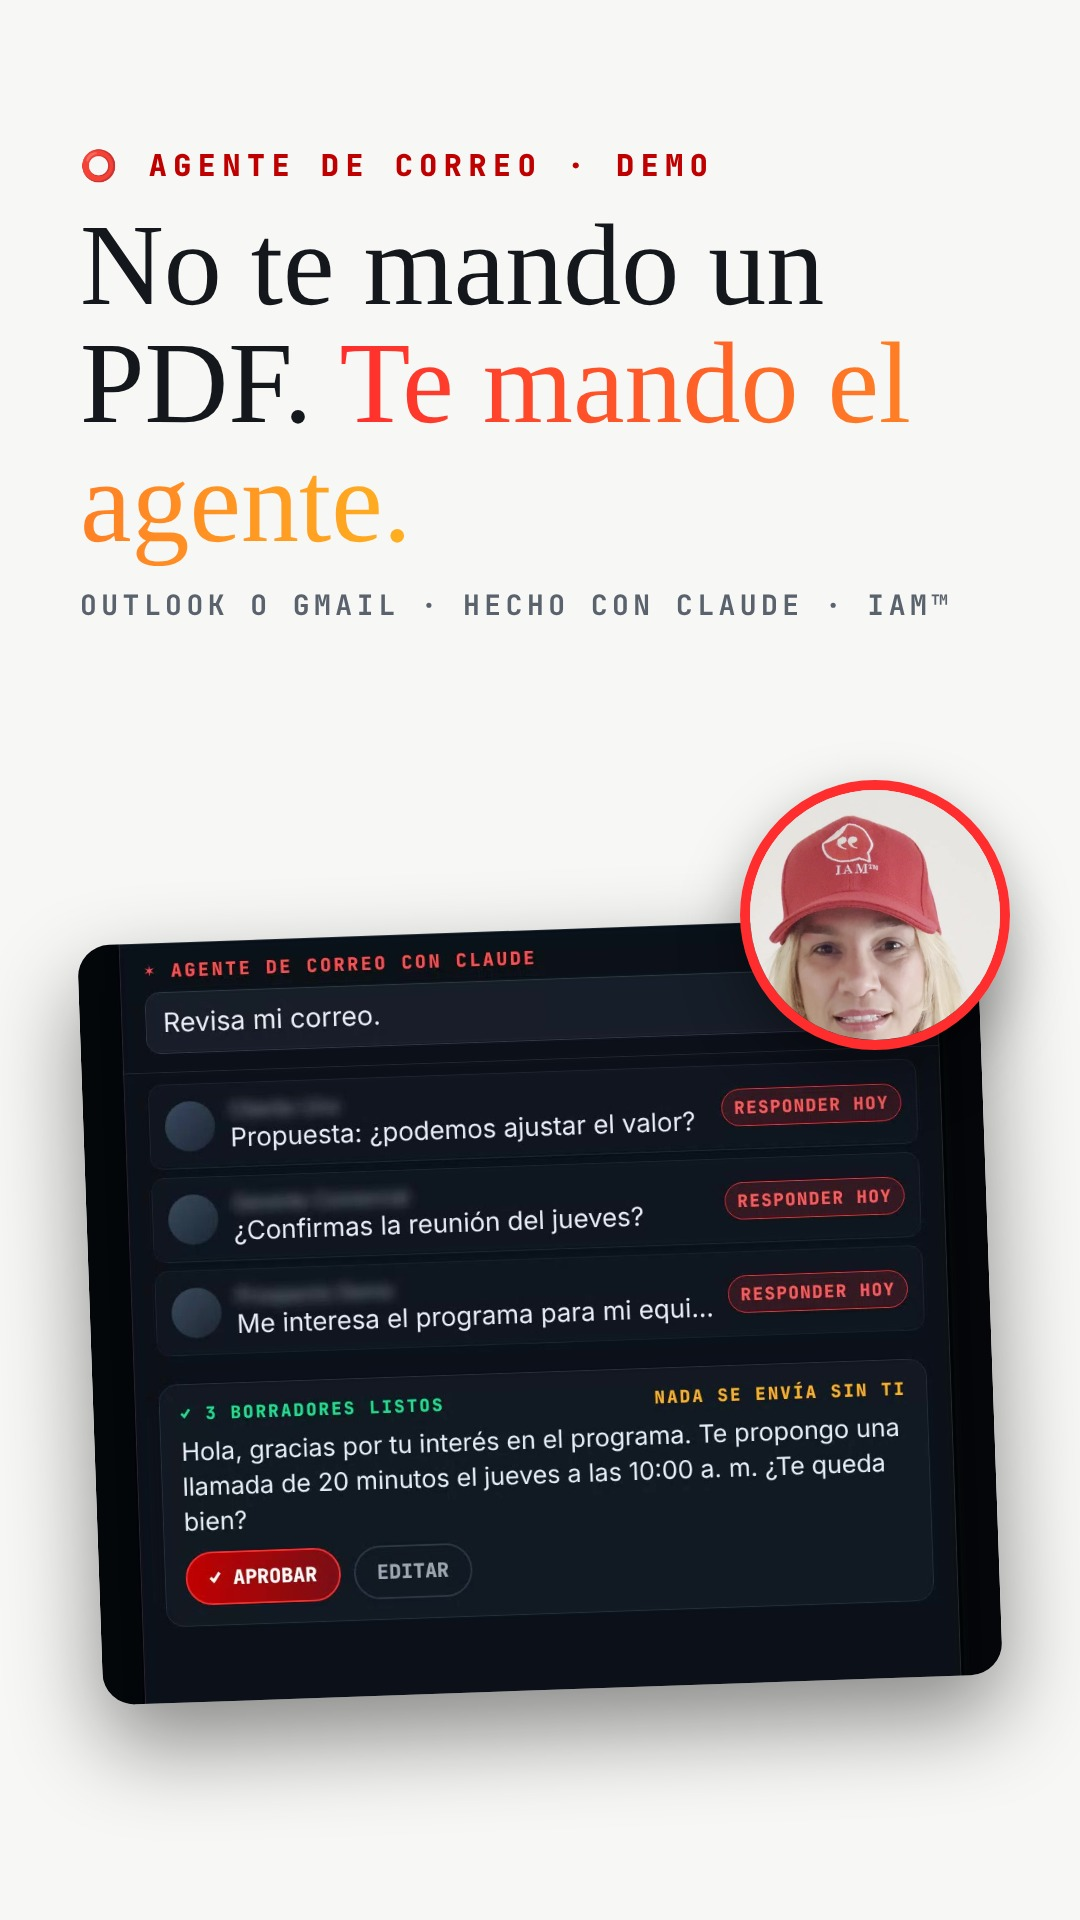
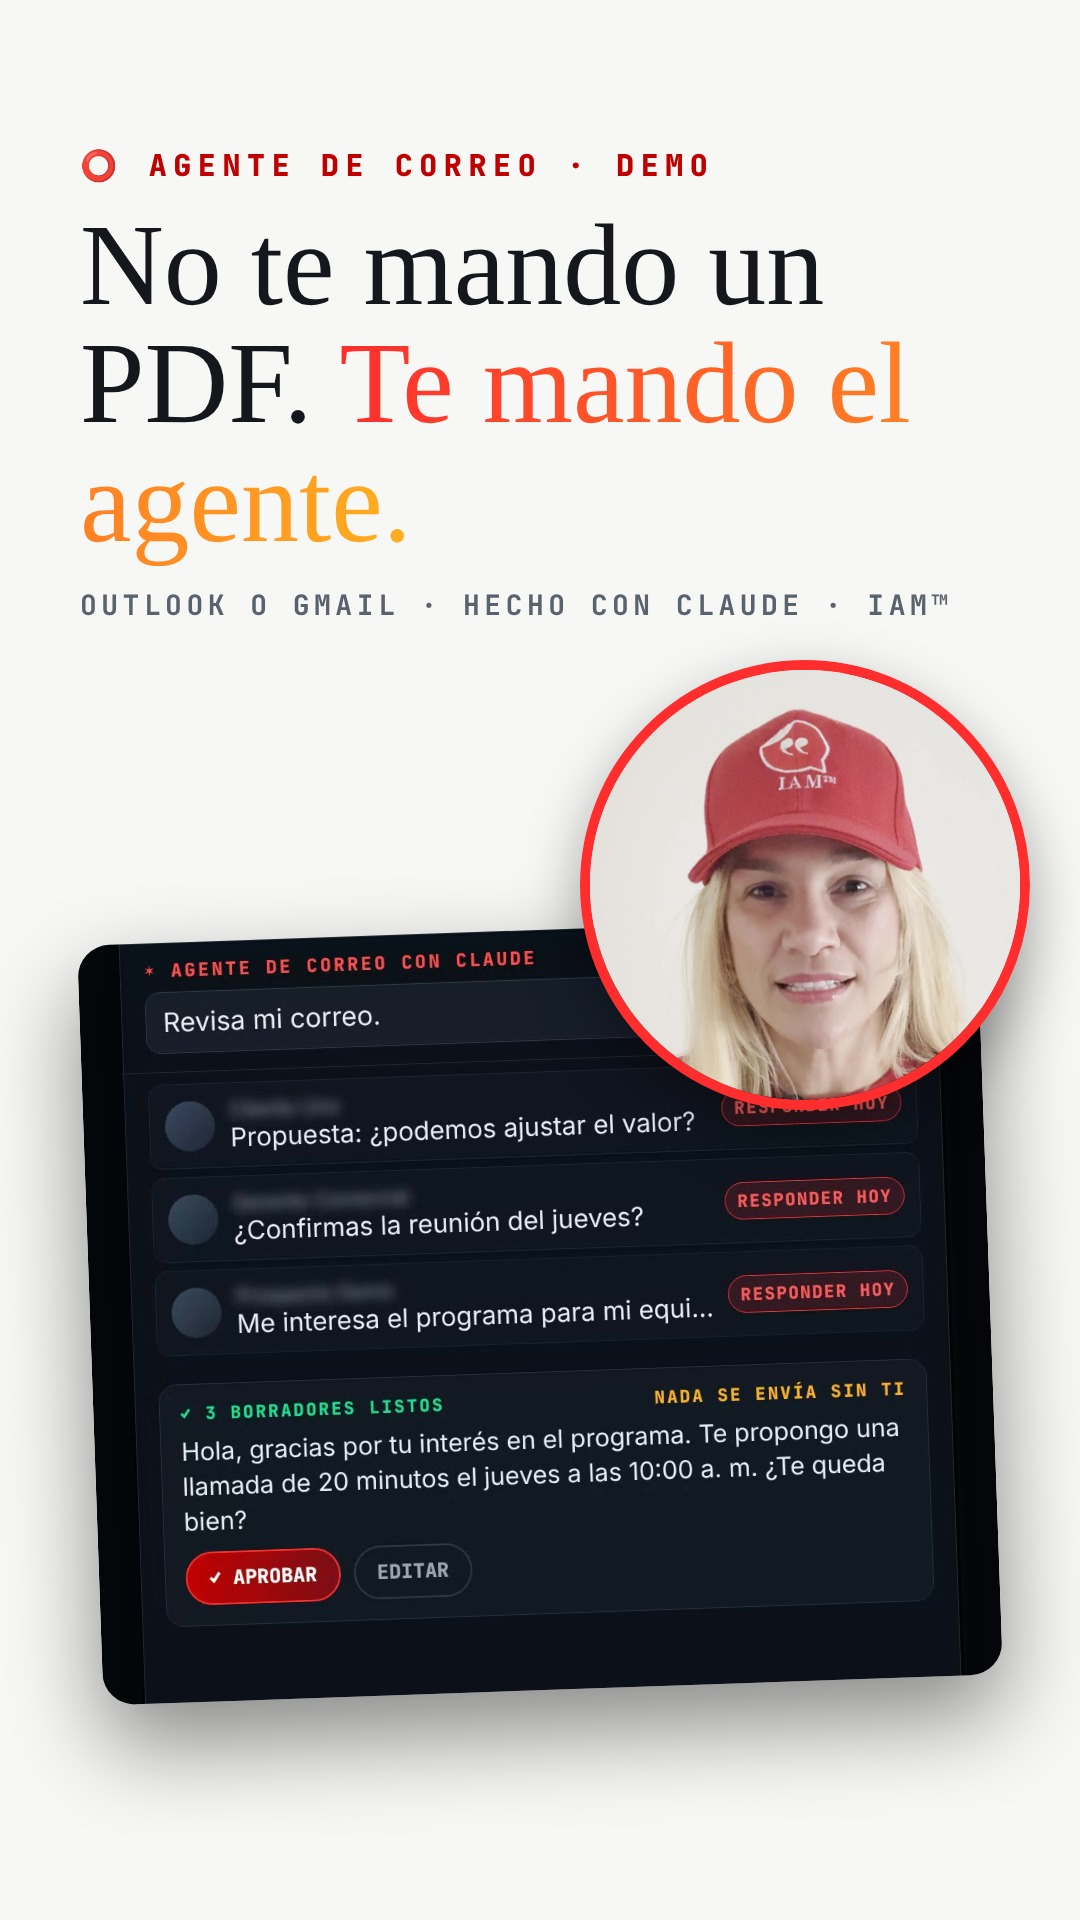
Portada CORREO: foto de Sandra más grande, cara completa; texto aprobado
Claude-Session: https://claude.ai/code/session_01NfWH1YnxdbRLc9ZrUJbHYq

Changed region(s): [[0.5194, 0.3438, 0.9778, 0.5938]]

diff --git a/estrategia/instagram/reel-agente-correo/cover.html b/estrategia/instagram/reel-agente-correo/cover.html
@@ -12,7 +12,7 @@ em{font-style:normal;background:linear-gradient(90deg,#ff2d2d,#ffb020);-webkit-b
 </style></head><body>
 <div class="c" id="c1"><div style="position:absolute;top:150px;left:80px;right:80px"><p class="eye" style="color:#c00000">⭕ AGENTE DE CORREO · DEMO</p><h1 style="font-size:116px">No te mando un PDF. <em>Te mando el agente.</em></h1><p class="s" style="color:#5a636d">OUTLOOK O GMAIL · HECHO CON CLAUDE · IAM™</p></div>
 <div class="shot" style="top:930px;height:760px;transform:rotate(-2deg)"><img src="f2.jpg" style="margin-top:-420px"></div>
-<div style="position:absolute;top:780px;right:70px;width:270px;height:270px;border-radius:50%;overflow:hidden;border:10px solid #ff2d2d;box-shadow:0 24px 60px rgba(0,0,0,.35);z-index:3"><img src="sandra.jpg" style="width:100%;height:100%;object-fit:cover"></div></div>
+<div style="position:absolute;top:660px;right:50px;width:450px;height:450px;border-radius:50%;overflow:hidden;border:10px solid #ff2d2d;box-shadow:0 24px 60px rgba(0,0,0,.35);z-index:3"><img src="sandra.jpg" style="width:100%;height:100%;object-fit:cover"></div></div>
 <div class="c" id="c2"><div class="shot" style="top:120px;transform:rotate(2deg);height:900px"><img src="f2.jpg" style="margin-top:-400px"></div>
 <div style="position:absolute;bottom:170px;left:80px;right:80px"><p class="eye">⭕ AGENTE DE CORREO · DEMO</p><h1 style="font-size:116px">Tu bandeja se ordena sola. <em>Tú solo apruebas.</em></h1><p class="s" style="color:#9aa6b2">OUTLOOK O GMAIL · HECHO CON CLAUDE · IAM™</p></div></div>
 </body></html>
